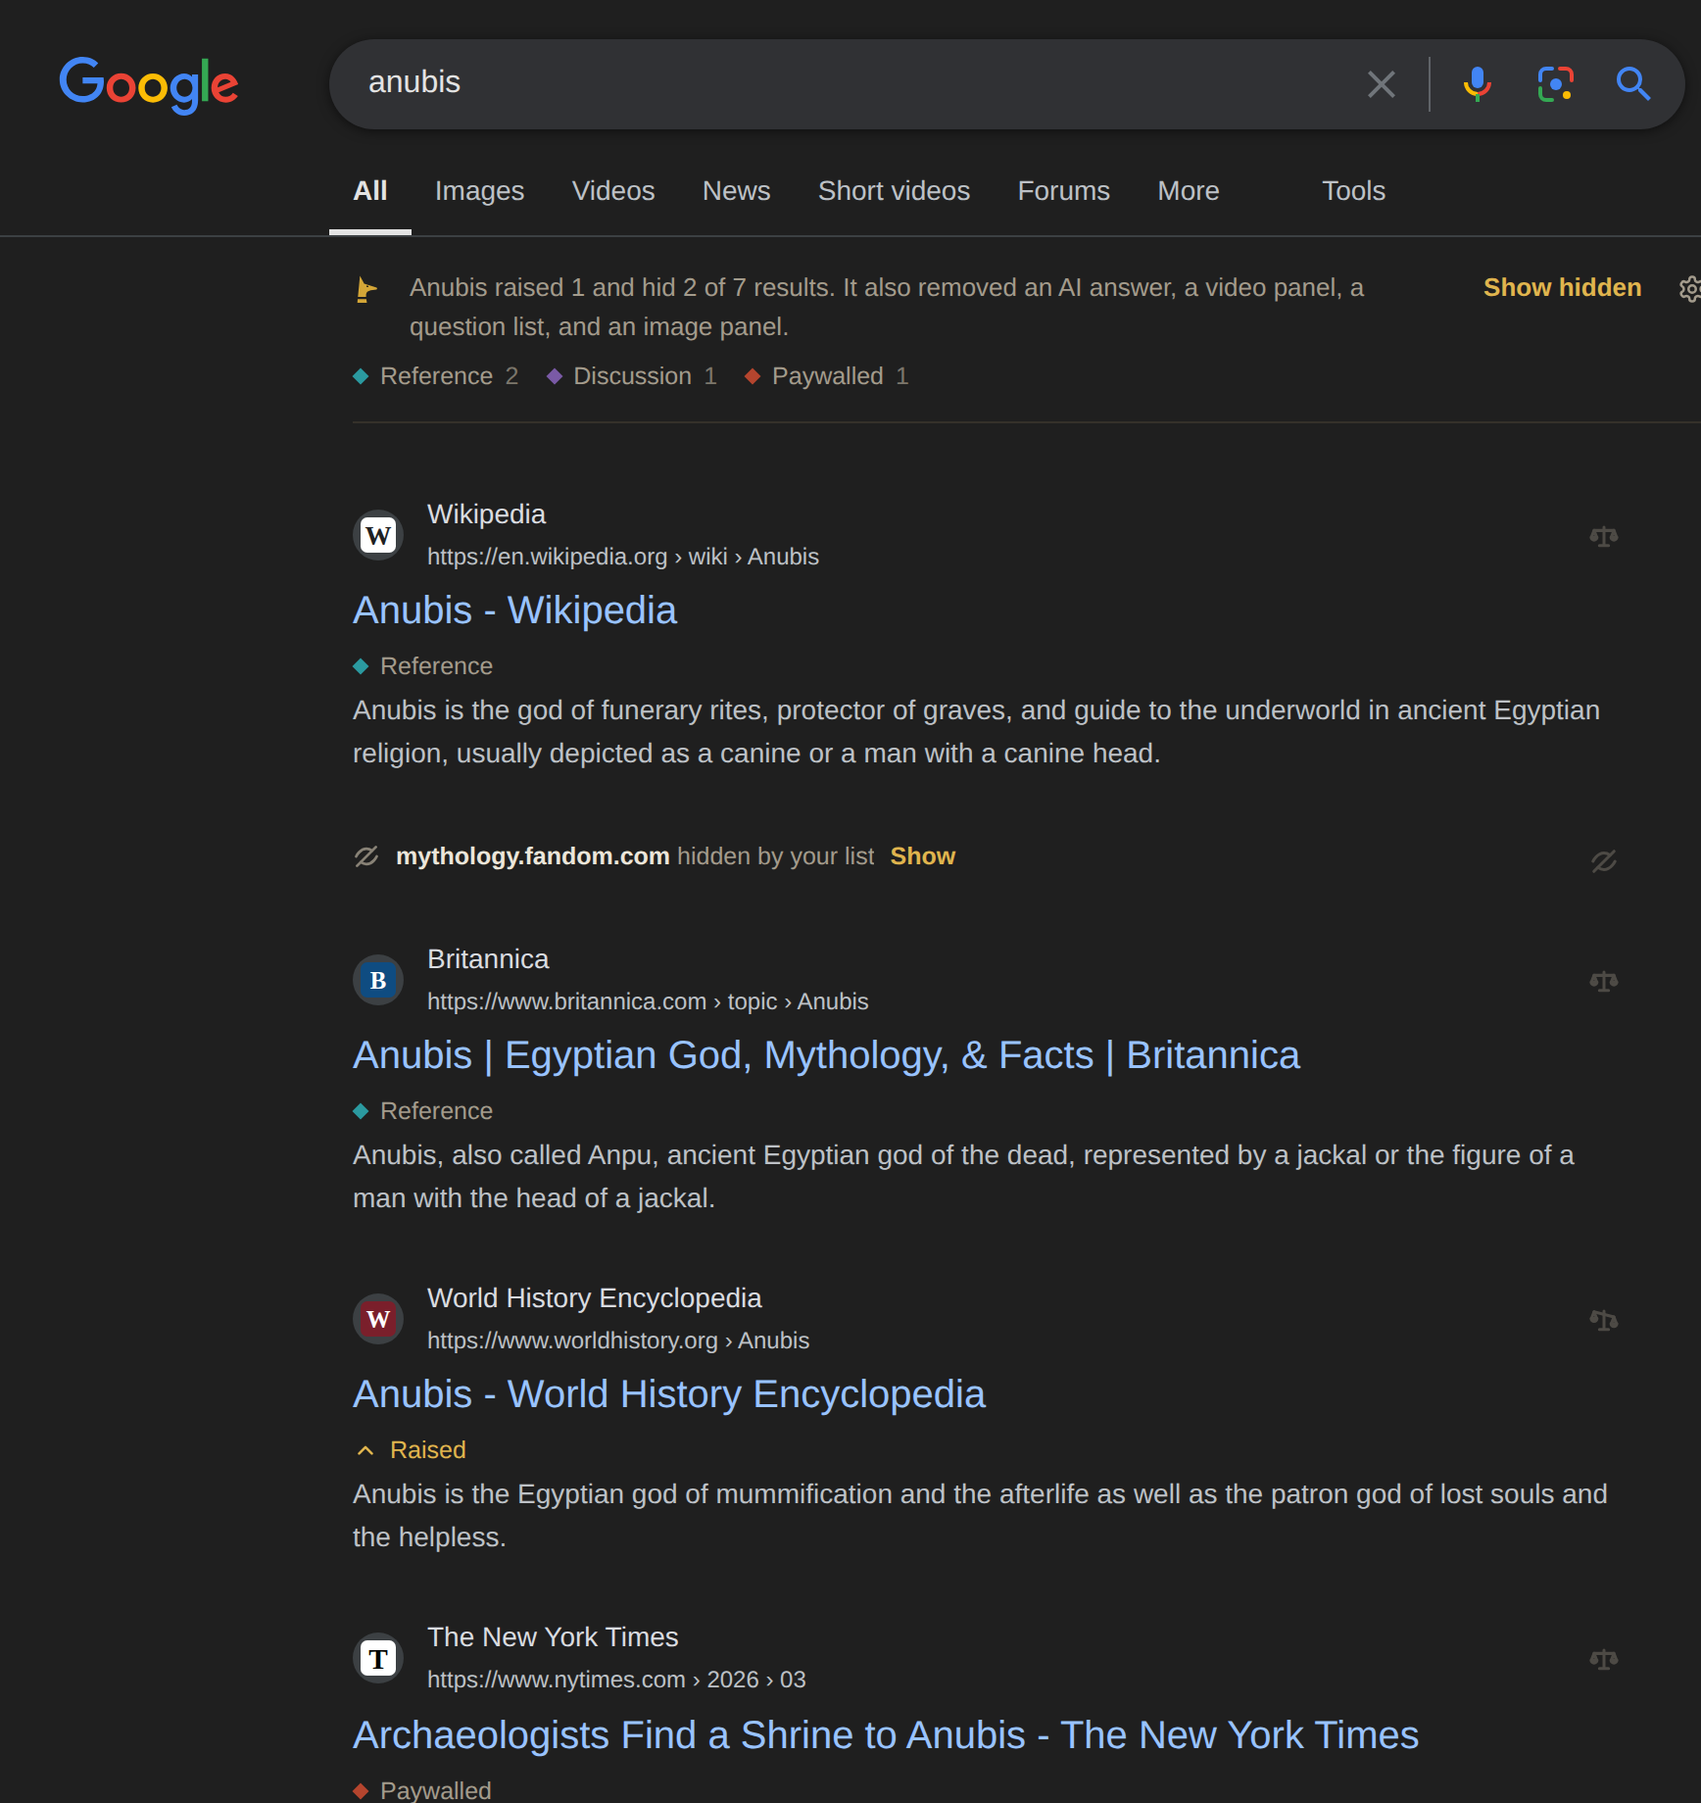
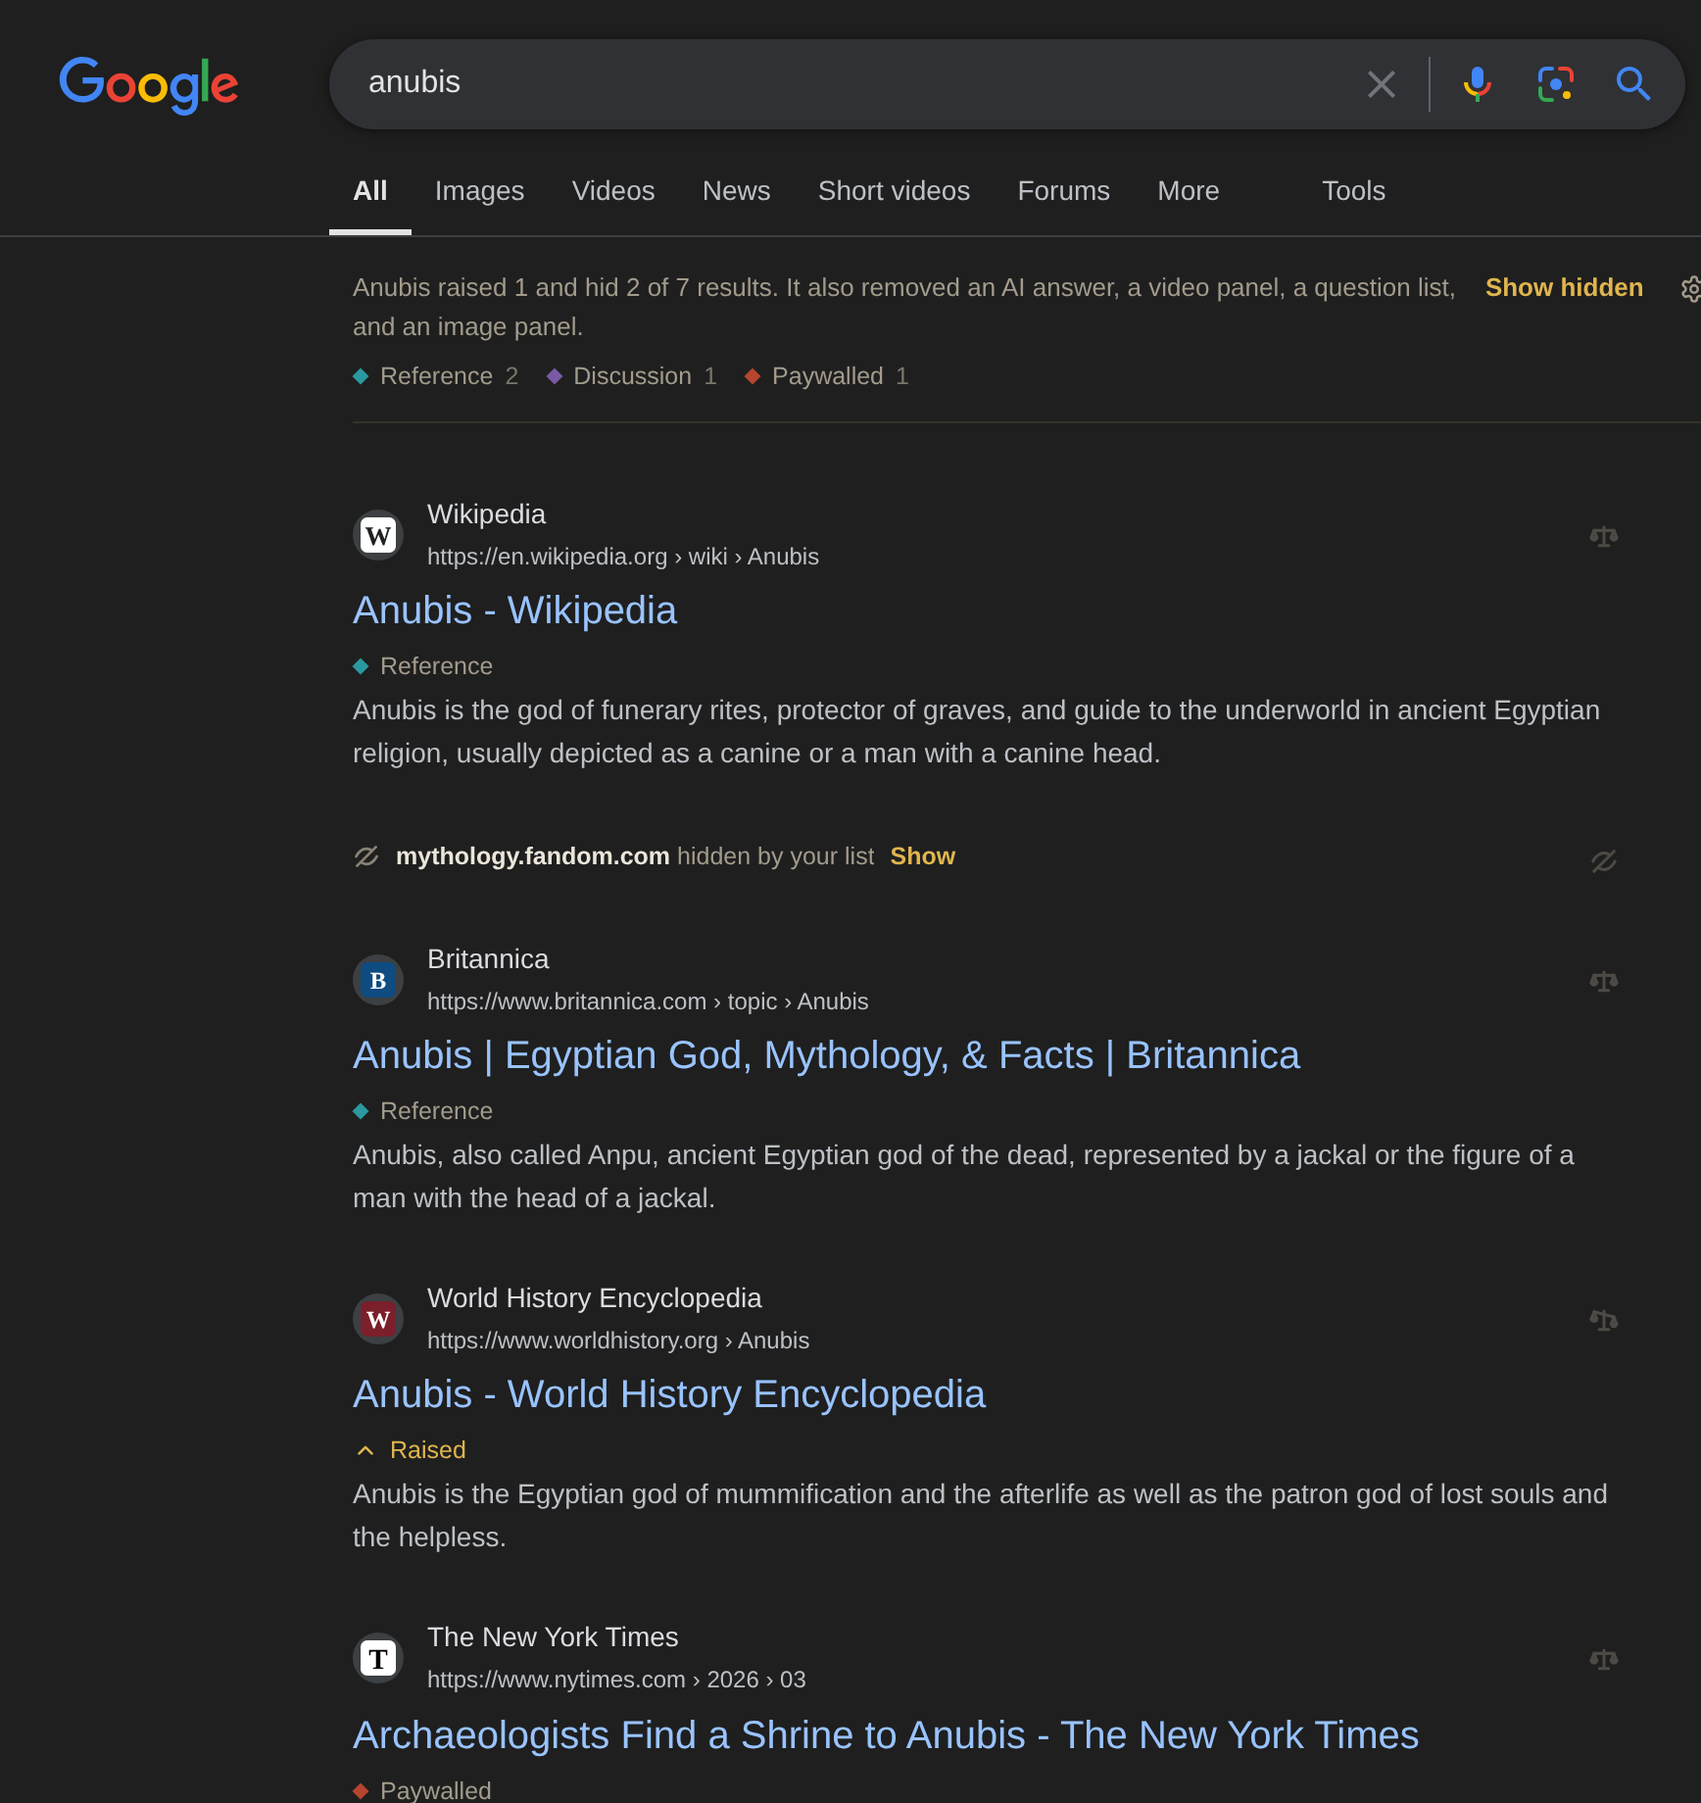
Remove the Anubis head from the summary

diff --git a/docs/.vitepress/theme/scroll-demo.ts b/docs/.vitepress/theme/scroll-demo.ts
@@ -109,10 +109,10 @@ const STEPS: { title: string; text: string }[] = [
 // Everything drawn here copies what the extension puts on a search page, so the demo
 // shows what people will see. Check it against the extension after changing any of
 // these, and update the demo with them:
-// - icons: utils/icons.ts (WEIGH_ICONS, LEVEL_ICONS, ICON_ANUBIS), copied because that
+// - icons: utils/icons.ts (WEIGH_ICONS, LEVEL_ICONS), copied because that
 //   module needs the extension's APIs;
 // - the summary's wording: utils/summary.ts and the summary… messages in
-//   public/_locales/en/messages.json; its mark and layout: .summary in
+//   public/_locales/en/messages.json; its layout: .summary in
 //   entrypoints/content/shadow.css. On phones (600px or less) it's the short form
 //   (shortSummary) with Show hidden and Details, and the tags wait behind Details;
 // - the labels under a title: renderChips in ui.ts and .chips and .verdict in
@@ -144,11 +144,8 @@ const WEIGH: Record<Level, string> = {
   pin: svg('<path d="M9.8 2.2l4 4-1.6.5-2.6 2.6.3 3.1-1.2 1.2L5.4 10.3 2.2 13.8M5.4 10.3L2.3 7.2l1.2-1.2 3.1.3 2.6-2.6z"/>'),
 };
 // A new key on each ranking, so the icon swaps in with a small tip.
-// The labels' icons (LEVEL_ICONS) and the summary's mark (ICON_ANUBIS, its eye cut out
-// in the page's colour).
+// The labels' icons (LEVEL_ICONS).
 const CHIP_ICONS = { raise: svg('<path d="M4 9.5l4-4 4 4"/>'), lower: svg('<path d="M4 6.5l4 4 4-4"/>') };
-const MARK =
-  '<svg xmlns="http://www.w3.org/2000/svg" viewBox="26 14 82 108" width="15" height="15" aria-hidden="true"><path fill="currentColor" d="M39.5 19 L55 48 L101 63 Q105 66 100.5 70 L79 72.5 Q63 76 62 88 L62 97 L32 97 Z"/><path fill="currentColor" d="M31 105 L63 105 L65 118 L30 118 Z"/><ellipse cx="67" cy="58" rx="4.2" ry="2.7" transform="rotate(18 67 58)" fill="var(--demo-page)"/></svg>';
 const chip = (on: boolean, level: 'raise' | 'lower', text: string) =>
   h('span', { class: ['chip', 'demo-verdict', level, { on }] }, [h('span', { class: 'chip-icon', innerHTML: CHIP_ICONS[level] }), text]);
 // The AI answer's mark: a plain four-pointed star in blue and violet, a sketch of
@@ -217,7 +214,6 @@ function renderPage(step: number): VNode {
     h('div', { class: 'tabs' }, ['All', 'Images', 'Videos', 'News', 'Maps', 'More'].map((t, i) => h('span', { class: { current: i === 0 } }, t))),
     fold(step >= 2, 'demo-summary', [
       h('p', [
-        h('span', { class: 'mark', innerHTML: MARK }),
         h('span', { class: 'long' }, [SUMMARY[step], ' ', h('span', { class: 'demo-link' }, 'Show hidden')]),
         h('span', { class: 'short' }, [
           SHORT[step],

diff --git a/docs/.vitepress/theme/demo-parts.ts b/docs/.vitepress/theme/demo-parts.ts
@@ -18,7 +18,6 @@ export const ICON = {
   raise: balanceIcon(3.6, 6.4),
   close: svg('<path d="M4 4l8 8M12 4l-8 8"/>'),
   gear: '<svg xmlns="http://www.w3.org/2000/svg" viewBox="0 0 24 24" width="15" height="15" aria-hidden="true" fill="none" stroke="currentColor" stroke-width="2" stroke-linecap="round" stroke-linejoin="round"><path d="M12.22 2h-.44a2 2 0 0 0-2 2v.18a2 2 0 0 1-1 1.73l-.43.25a2 2 0 0 1-2 0l-.15-.08a2 2 0 0 0-2.73.73l-.22.38a2 2 0 0 0 .73 2.73l.15.1a2 2 0 0 1 1 1.72v.51a2 2 0 0 1-1 1.74l-.15.09a2 2 0 0 0-.73 2.73l.22.38a2 2 0 0 0 2.73.73l.15-.08a2 2 0 0 1 2 0l.43.25a2 2 0 0 1 1 1.73V20a2 2 0 0 0 2 2h.44a2 2 0 0 0 2-2v-.18a2 2 0 0 1 1-1.73l.43-.25a2 2 0 0 1 2 0l.15.08a2 2 0 0 0 2.73-.73l.22-.39a2 2 0 0 0-.73-2.73l-.15-.08a2 2 0 0 1-1-1.74v-.5a2 2 0 0 1 1-1.74l.15-.09a2 2 0 0 0 .73-2.73l-.22-.38a2 2 0 0 0-2.73-.73l-.15.08a2 2 0 0 1-2 0l-.43-.25a2 2 0 0 1-1-1.73V4a2 2 0 0 0-2-2z"/><circle cx="12" cy="12" r="3"/></svg>',
-  mark: '<svg xmlns="http://www.w3.org/2000/svg" viewBox="26 14 82 108" width="15" height="15" aria-hidden="true"><path fill="currentColor" d="M39.5 19 L55 48 L101 63 Q105 66 100.5 70 L79 72.5 Q63 76 62 88 L62 97 L32 97 Z"/><path fill="currentColor" d="M31 105 L63 105 L65 118 L30 118 Z"/><ellipse cx="67" cy="58" rx="4.2" ry="2.7" transform="rotate(18 67 58)" fill="var(--demo-page)"/></svg>',
   chipRaise: svg('<path d="M4 9.5l4-4 4 4"/>', 13),
   chipLower: svg('<path d="M4 6.5l4 4 4-4"/>', 13),
   lower: balanceIcon(6.4, 3.6),

diff --git a/entrypoints/content/shadow.css b/entrypoints/content/shadow.css
@@ -262,22 +262,12 @@ button {
   line-height: 20px;
   color: var(--muted);
 }
-.summary .mark {
-  display: flex;
-  align-items: center;
-  height: 20px;
-  color: var(--gold);
-}
 /* The sentence and its buttons, laid out one by one here; on phones, one paragraph. */
 .summary .line {
   display: contents;
 }
 .summary .line > .icon-btn {
   margin-block: -2px;
-}
-.summary .mark svg {
-  width: 15px;
-  height: 15px;
 }
 .summary .sentence {
   flex: 1;
@@ -292,17 +282,14 @@ button {
     display: none;
   }
 }
-/* On phones the mark hangs to the left, and the sentence, the last change, and the
-   tags line up beside it. The buttons follow the sentence's words and wrap with them,
-   so none is left alone on a line under the mark. */
+/* On phones the sentence, the last change, and the tags stack in one column. The
+   buttons follow the sentence's words and wrap with them, so none is left alone on
+   a line. */
 @media (max-width: 600px) {
   .summary {
     display: grid;
-    grid-template-columns: auto minmax(0, 1fr);
+    grid-template-columns: minmax(0, 1fr);
     gap: 4px 8px;
-  }
-  .summary > :not(.mark) {
-    grid-column: 2;
   }
   .summary .line {
     display: block;

diff --git a/entrypoints/content/ui.ts b/entrypoints/content/ui.ts
@@ -2,7 +2,7 @@ import { balanceSvg, setBalance } from '@/utils/balance';
 import { domainChoices, normalizeHostname, siteOf } from '@/utils/domain';
 import { h, icon } from '@/utils/dom';
 import type { EngineDef } from '@/utils/engines';
-import { ICON_ANUBIS, ICON_CLOSE, ICON_GEAR, ICON_HIDE, LEVEL_CHIPS, LEVEL_ICONS, LEVEL_LABELS, WEIGH_ICONS } from '@/utils/icons';
+import { ICON_CLOSE, ICON_GEAR, ICON_HIDE, LEVEL_CHIPS, LEVEL_ICONS, LEVEL_LABELS, WEIGH_ICONS } from '@/utils/icons';
 import type { TagDef } from '@/utils/listformat';
 import { LEVELS, type Level, type TagPref, type Verdict } from '@/utils/matcher';
 import { t, tJoin, tList, tn, tParts } from '@/utils/i18n';
@@ -756,7 +756,6 @@ export function renderSummary(
     h(
       'div',
       { class: `summary${compact ? ' compact' : ''}${summaryDetails ? ' open' : ''}` },
-      h('span', { class: 'mark' }, icon(ICON_ANUBIS)),
       // The sentence and its buttons: on phones they run on as one paragraph, so the
       // buttons follow the words and wrap with them; wider, the line steps aside
       // (display: contents) and each is laid out on its own.

diff --git a/utils/icons.ts b/utils/icons.ts
@@ -6,9 +6,6 @@ import { t } from './i18n';
 const svg = (body: string, extra = '') =>
   `<svg xmlns="http://www.w3.org/2000/svg" viewBox="0 0 16 16" width="16" height="16" aria-hidden="true" focusable="false" fill="none" stroke="currentColor" stroke-width="1.6" stroke-linecap="round" stroke-linejoin="round" ${extra}>${body}</svg>`;
 
-/** The Anubis head from public/anubis.svg, filled. */
-export const ICON_ANUBIS = `<svg xmlns="http://www.w3.org/2000/svg" viewBox="26 14 82 108" width="16" height="16" aria-hidden="true" focusable="false"><path fill="currentColor" d="M39.5 19 L55 48 L101 63 Q105 66 100.5 70 L79 72.5 Q63 76 62 88 L62 97 L32 97 Z"/><path fill="currentColor" d="M31 105 L63 105 L65 118 L30 118 Z"/><ellipse cx="67" cy="58" rx="4.2" ry="2.7" transform="rotate(18 67 58)" fill="var(--anubis-eye, #1b1a16)"/></svg>`;
-
 export const ICON_HIDE = svg(
   '<path d="M2 8s2.2-4.5 6-4.5c1.3 0 2.4.5 3.3 1.1M14 8s-2.2 4.5-6 4.5c-1.3 0-2.4-.5-3.3-1.1"/><path d="M2.5 13.5l11-11"/>',
 );

diff --git a/docs/.vitepress/theme/rank-demo.ts b/docs/.vitepress/theme/rank-demo.ts
@@ -213,7 +213,7 @@ export default defineComponent({
         h('div', { ref: root, class: 'hd-stage' }, [
           h('div', { class: 'demo-page hd-page', 'aria-hidden': 'true' }, [
             h('div', { class: 'demo-summary hd-summary' }, [
-              h('p', [html('span', 'mark', ICON.mark), h('span', [sentence, ' ', html('span', 'hd-gear', ICON.gear)])]),
+              h('p', [h('span', [sentence, ' ', html('span', 'hd-gear', ICON.gear)])]),
               fold(!!state.said, 'hd-change', [h('span', state.said), ' ', h('span', { class: 'demo-link' }, 'Undo')]),
               h('div', { class: 'summary-tags hd-tags' }, [tagMark('Reference', '#2b9aa0', 2)]),
             ]),

diff --git a/docs/.vitepress/theme/hide-demo.ts b/docs/.vitepress/theme/hide-demo.ts
@@ -152,7 +152,6 @@ export default defineComponent({
           h('div', { class: 'demo-page hd-page', 'aria-hidden': 'true' }, [
             h('div', { class: 'demo-summary hd-summary' }, [
               h('p', [
-                html('span', 'mark', ICON.mark),
                 h('span', { class: 'long' }, [
                   long,
                   ' ',

diff --git a/docs/.vitepress/theme/brand.css b/docs/.vitepress/theme/brand.css
@@ -379,14 +379,6 @@ body .VPContent .VPHome {
     display: none;
   }
 }
-/* The Anubis head in gold, as the extension's summary starts. */
-.demo-summary .mark {
-  display: flex;
-  flex: none;
-  align-items: center;
-  height: 20px;
-  color: var(--vp-c-brand-3);
-}
 .demo-link {
   font-weight: 600;
   color: var(--vp-c-brand-1);

diff --git a/STYLEGUIDE.md b/STYLEGUIDE.md
@@ -11,7 +11,7 @@ The screenshots below come from the wiki (`docs/img/`, regenerated with `node e2
 ## Principles
 
 1. **Quiet on someone else's page.** On a search page Anubis is a guest. It uses the page's own font, muted text, hairlines, and no fills. It never moves, restyles, or covers the engine's content.
-2. **One flourish.** The result menu's cartouche (the gold oval around the site's name) and balance are the only decoration. The popup shows the same pair for the site you're on, since it does the same job there. The Anubis motif stays in the logo, the summary's mark, and the menu; it never names a function.
+2. **One flourish.** The result menu's cartouche (the gold oval around the site's name) and balance are the only decoration. The popup shows the same pair for the site you're on, since it does the same job there. The Anubis motif stays in the logo and the menu; it never names a function.
 3. **Plain words over clever ones.** A label says what happens. The same word means the same thing everywhere.
 4. **Nothing without a trace.** What Anubis hid, removed, or reranked is stated in the summary, and "Show hidden" undoes it for the page. Deleting in Settings doesn't ask "Are you sure?" (a browser can be told to stop showing a page's dialogs, and then the answer is always no): it acts, says what it did, and offers Undo.
 5. **Gold is for what matters.** The primary action, focus, a choice that's been made, and the cartouche. Nothing else is gold.
@@ -187,7 +187,7 @@ The one place with character. In order:
 - Inline SVG from `utils/icons.ts`: a 16×16 grid, 1.6px stroke, round caps and joins, `currentColor`. Shown at 13–15px. Decorative, so `aria-hidden`.
 - Each ranking has one icon, used everywhere: an eye struck through (Hide), a chevron down (Lower), a feather (Normal), a chevron up (Raise), a pin (Pin). In the popup and the result menu it sits over the ranking's name.
 - The balance is drawn in three more places. In the popup it's in `--muted`, level and with empty pans, above Your sites while that list is empty: the only illustration. On the welcome page it sits in gold under the lead (see Motion).
-- The Anubis head is the brand mark: the logo tile on extension pages and in the toolbar, the bare head as the summary's mark on search pages. It's never a button's icon.
+- The Anubis head is the brand mark: the logo tile on extension pages and in the toolbar. Search pages don't show it: the summary is plain text. It's never a button's icon.
 - The button on each result shows the result menu's balance in small, tipped to the site's ranking: level for Normal, the site's (left) pan down for Lower, and up for Raise. A hidden site shows the ranking's crossed-out eye and a pinned one its pin. It's drawn in `--muted` like any icon at rest; the tilt, not a colour, shows the ranking, and its label says it too ("Hide, rank, or tag fandom.com (lowered)").
 - An icon without words only where the meaning is universal (the cog, ×, and the balance on a result, which names the menu it opens in its tooltip). Everything else gets a word, with or without an icon.
 

diff --git a/CLAUDE.md b/CLAUDE.md
@@ -43,7 +43,7 @@ Read these only when the task touches them, and only the relevant section:
 - Use `STYLEGUIDE.md`'s tokens, sizes, and controls; don't add a colour, size, or radius without adding it there. Brand colours: background `#1b1a16`, gold `#d4a637`. Red (`--danger`) is only for errors and actions that delete something, never for a ranking or a state: a chosen Hide is grey (`tests/palette.test.ts` checks).
 - Design follows `.claude/skills/frontend-design`: on search pages stay quiet (the page's font, muted text, no fills); the result menu's cartouche and balance are the one flourish. Sentence case, no ALL-CAPS labels, no "·"-joined meta strings.
 - Write whole sentences in British spelling, with the serial comma in lists of three or more ("a, b, and c"); when a sentence needs a second "and", start another.
-- Wording follows `.claude/skills/ux-heuristics`: labels say what happens in plain words. The Anubis motif stays in the logo, the summary's mark, and the menu's balance, never in a function's name. One word per concept: a site's *ranking* is Hide, Lower, Normal, Raise, or Pin. Icons only where universally understood (`ICON_GEAR`, ×), and every icon-only button gets an `aria-label` and a tooltip.
+- Wording follows `.claude/skills/ux-heuristics`: labels say what happens in plain words. The Anubis motif stays in the logo and the menu's balance, never in a function's name. One word per concept: a site's *ranking* is Hide, Lower, Normal, Raise, or Pin. Icons only where universally understood (`ICON_GEAR`, ×), and every icon-only button gets an `aria-label` and a tooltip.
 - Nothing is hidden or removed without a trace: the summary says what Anubis did, and "Show hidden" undoes it for the page.
 - Ask for as few permissions as possible.
 - Docs are for people who use the extension, in the interface's plain words. When a feature changes, update every relevant guide and reference, and `README.md` together with `docs/guide/introduction.md`'s Features (`tests/readme.test.ts`). Keep docs page paths and headings stable: settings link to them.

diff --git a/docs/experiments/design.md b/docs/experiments/design.md
@@ -82,6 +82,8 @@ Asked for: pinning and the starter lists were only explained in the user guide, 
 
 ## Wording, icons, and the motif
 
+- **The summary's mark is gone (2026-10-08).** Asked for from use: the Anubis head before the summary's sentence went, on search pages and in the docs' demos. The summary is plain text now, which suits "stay quiet on search pages"; the motif stays in the logo and the result menu's balance.
+
 Feedback from use: "weigh" was too ambiguous for the functions people rely on ("Weigh deeper", "Weigh a site", "Weigh this site"), the settings button's icon read as a sun, and the Anubis logo on every result said who made the button, not what it does. The motif (the balance in the menu, the cartouche) was liked; it was the words and icons that got in the way.
 
 - **Inspiration:** Scott Jenson's talk "Are we really going to use the same Desktop UX forever?" (KDE Akademy 2026) treats UX as layers (style, structure, strategy, technology) and argues for tools shaped around the task in front of you rather than around the software. Here the style layer (the Egyptian theme) had leaked into the structure layer (the names of functions). The `ux-heuristics` skill (Krug's *Don't Make Me Think*, Nielsen's heuristics) was installed in `.claude/skills/` for the review. It flags this exact pattern: clever names lose to clear names, and icons without labels make people guess ("mystery meat navigation").
